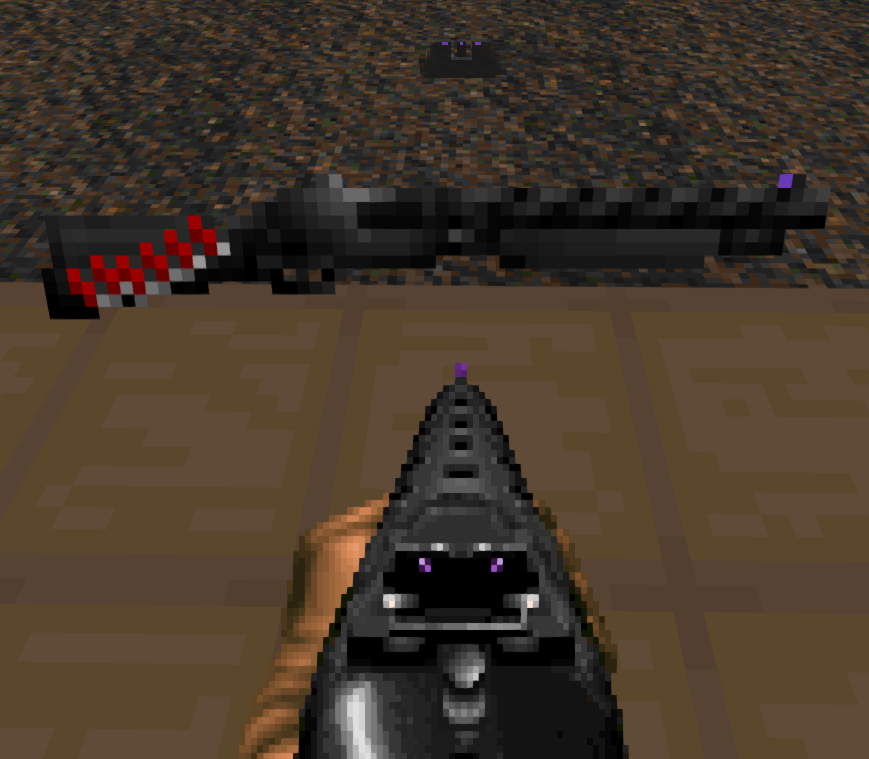
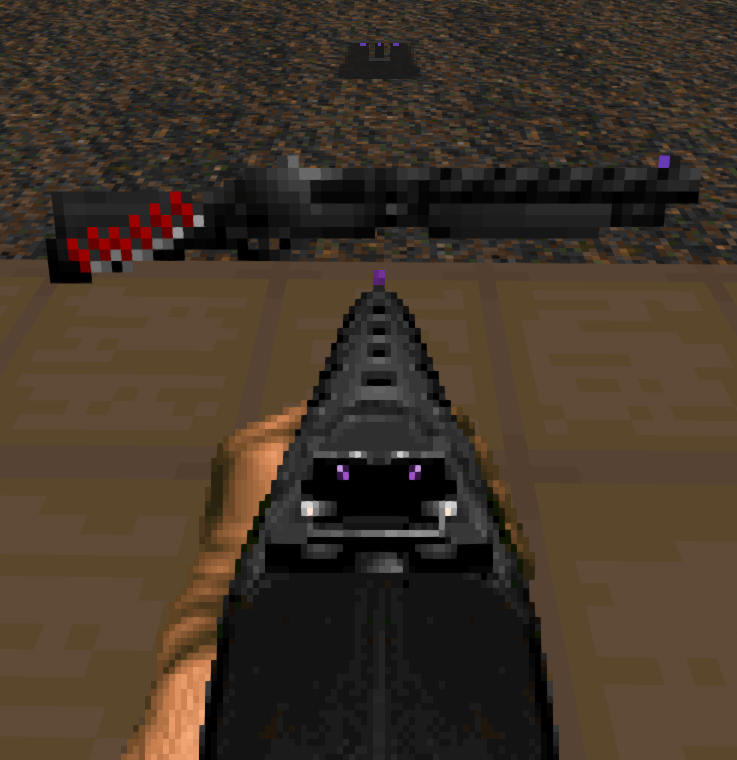
Further Refine Hunter Sprites
The safety on the tang always bothered me, and upon further review of the barrel shroud muzzle flashes, I honestly don't care for them, so I committed even more crimes against humanity and frankensprited this abomination together.  The pumping animation has been slightly refined after realizing the front hand placement was reversed between idle and starting the reload, and after tweaking the unload offsets, the whole thing just feels better now.

diff --git a/readme.md b/readme.md
@@ -225,12 +225,13 @@ The Logistics Bag also always felt off to be carrying multiple "full-size" backp
 - A1337Spy, for the BPX sprites
 - A1337Spy, HyperUltra64, and Sledge for the modified versions of Chopblock's TRO-G sprites
 - JoeyTD & Minigunner, for the Glock18 Pistol Sprites (Quick Swap sprites flipped by me), as well as the Duke3D Shotgun sprites
-- Daedalus, for the Shotgun HUD sprites
+- Daedalus, for the Complex Doom Shotgun HUD sprites
+- Neoworm, for the extended Shotgun HUD sprites
 - ZikShadow, for the modified versions of Daedalus' original shotgun pickup sprites
 - Tartlman (a.k.a. bogus), for the [ZM69](https://forum.zdoom.org/viewtopic.php?f=43&t=66091) pickup & HUD sprites based off of Hideous Destructor's ZM66 sprites
 - Zrrion, for the Medical Pouch sprite
 - id Software, CardboardMarty, JoeyTD, Neoworm, YukesVonFaust, Sonik.O, ChopBlock223; for the Sawed-Off Slayer HUD sprites
-- Toast, for the modified version of Sonik.O's UAC Break-Action Grenade Launcher HUD & pickup sprites, and for the Hunter Shotgun muzzle flash sprites
+- Toast, for the modified version of Sonik.O's UAC Break-Action Grenade Launcher HUD & pickup sprites
 - Sgt. Shivers, for the Plasma Pistol HUD & pickup sprites (Phazer)
 - Skelegant, for the [Gunsmith Pouch](https://dastrukar.gitlab.io/hddons-list/#utilities:gunsmithpouch-mohl) sprite used in Mohl's mod of the same name
 - Mephresfire, for the Hideous Helmet sprite
